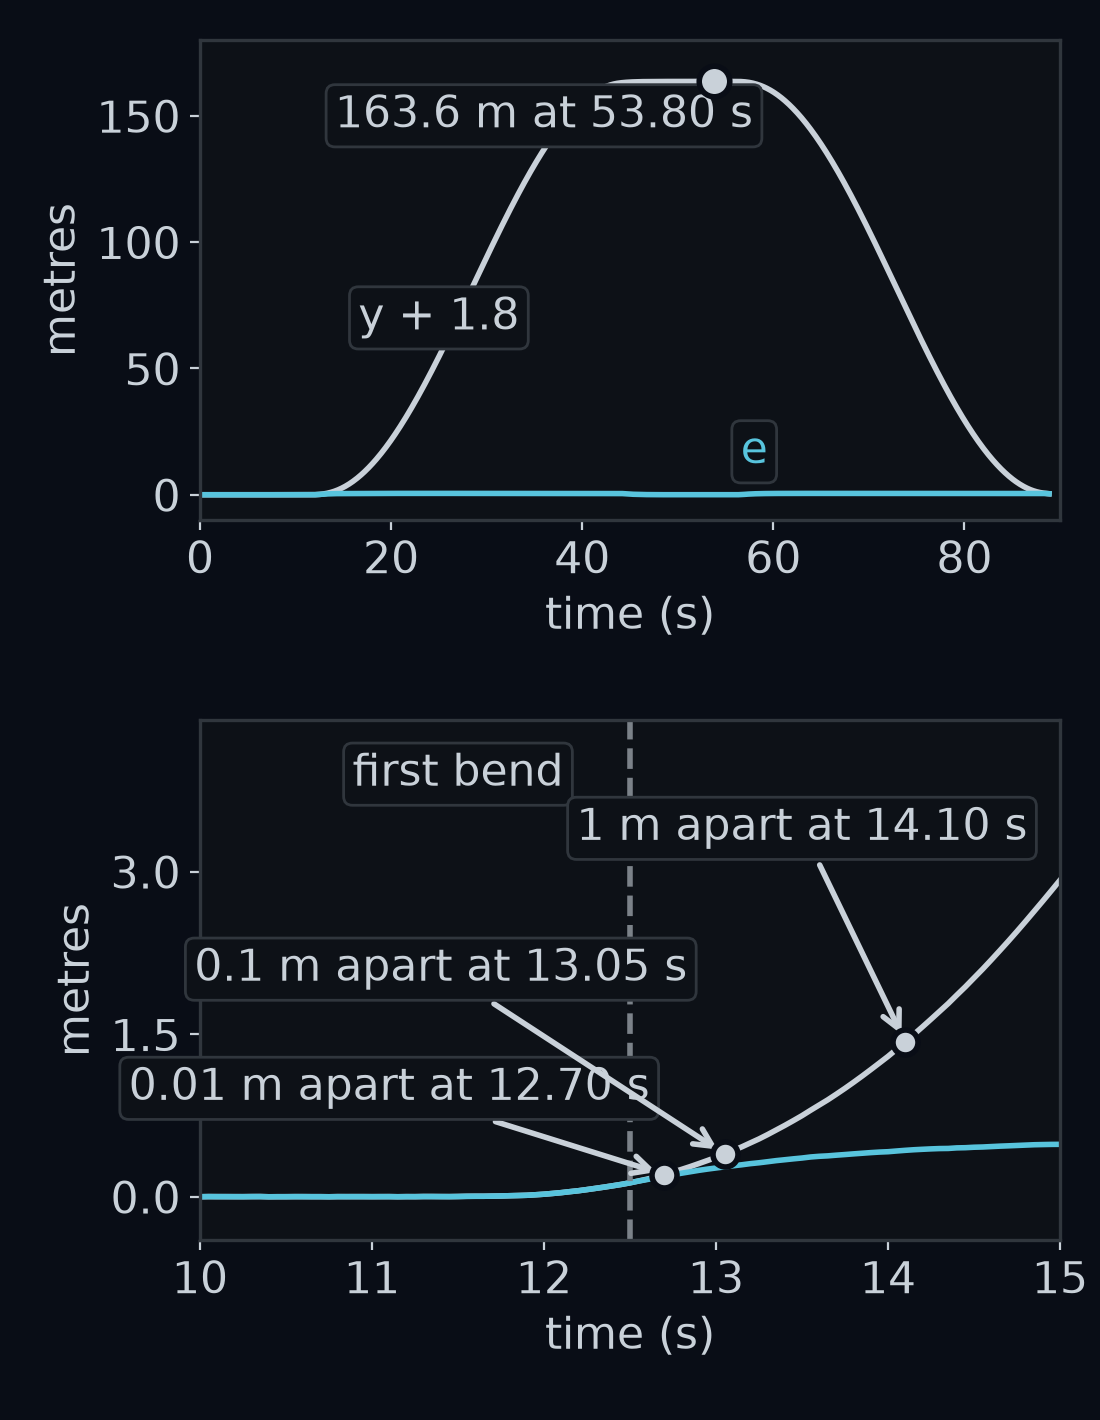
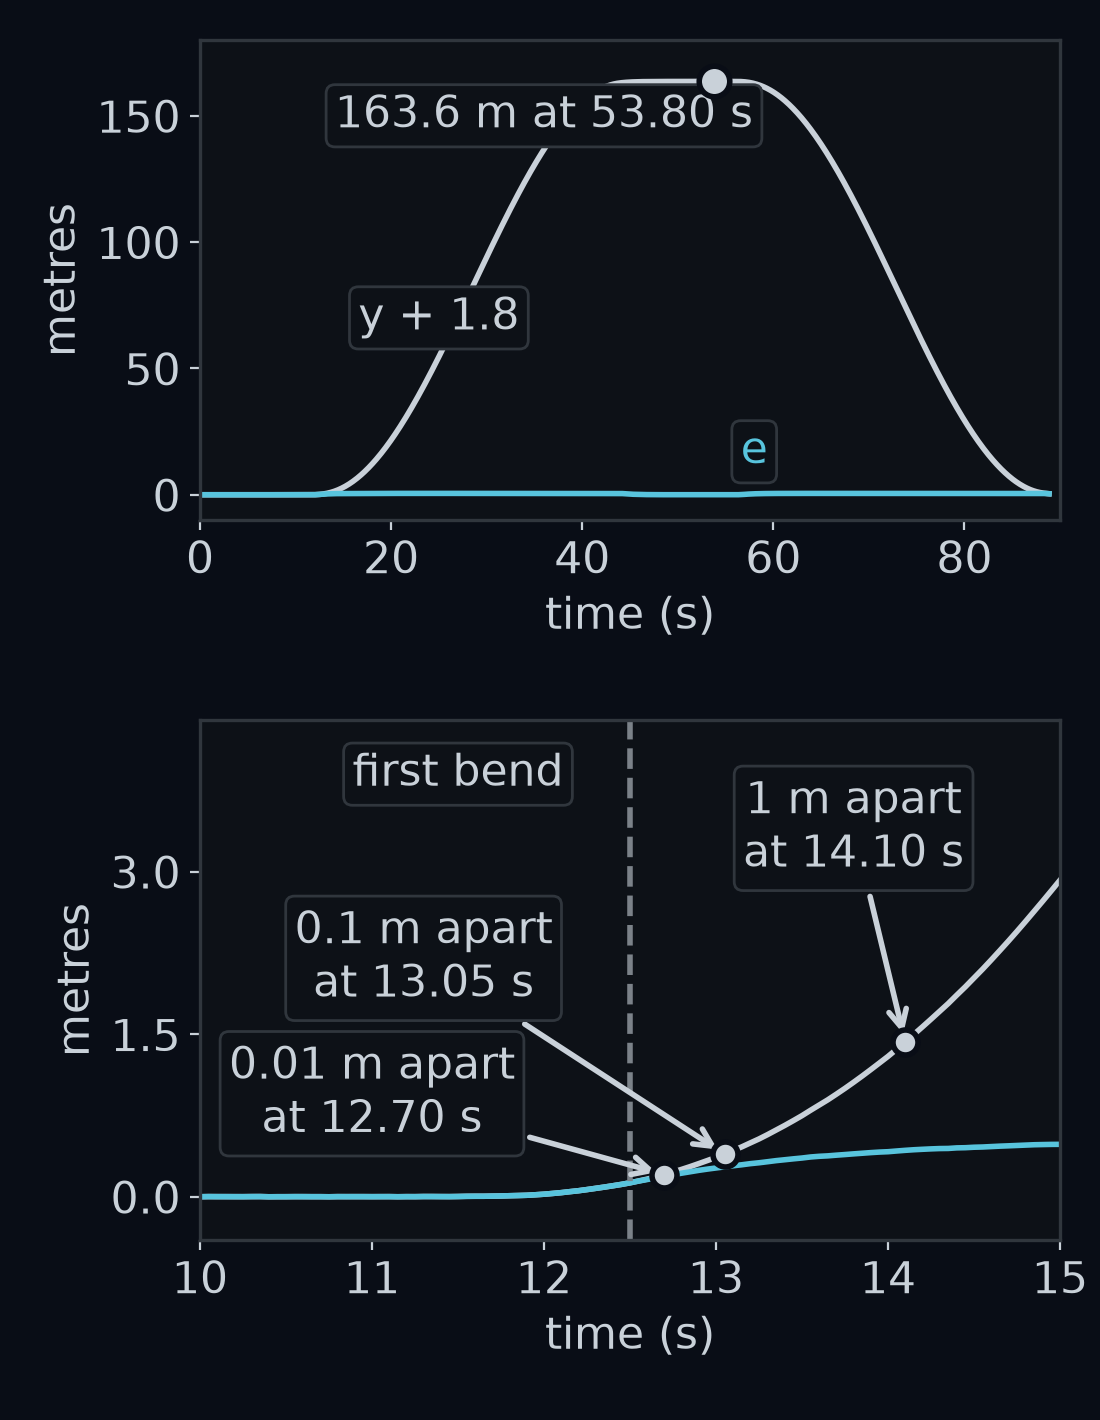
1.1.3 fix round 2: T1 yaw/heading wording, s-matches hint, figure labels, lab practice label

Changed region(s): [[0.0927, 0.6197, 0.6491, 0.8366], [0.5255, 0.5268, 0.9582, 0.7437]]

diff --git a/course/1.1.3-the-roads-own-coordinates/figures.py b/course/1.1.3-the-roads-own-coordinates/figures.py
@@ -236,7 +236,7 @@ def naive_y(path):
     bot.plot(lap.t[keep], lap.e[keep], color=BLUE, lw=2)
     bot.axvline(12.5, color=DIM, ls="--", lw=2)
     _tag(bot, 11.5, 3.9, "first bend")
-    for gap_m, text, where in ((0.01, "0.01 m apart at 12.70 s", (11.1, 1.0)), (0.1, "0.1 m apart at 13.05 s", (11.4, 2.1)), (1.0, "1 m apart at 14.10 s", (13.5, 3.4))):
+    for gap_m, text, where in ((0.01, "0.01 m apart\nat 12.70 s", (11.0, 0.95)), (0.1, "0.1 m apart\nat 13.05 s", (11.3, 2.2)), (1.0, "1 m apart\nat 14.10 s", (13.8, 3.4))):
         k = int(np.argmax(diff > gap_m))
         _dot(bot, lap.t[k], naive[k], TEXT, 9)
         _pointer(bot, text, (lap.t[k], naive[k]), where)
@@ -764,18 +764,19 @@ def challenge_setup(path):
     road_dir = np.array([math.cos(yaw - 0.04), math.sin(yaw - 0.04)])
     stretch = 10.0  # 0.04 rad is invisible at true size: the pink ray and arc are drawn this many times too wide, as in vertex_tie
     wide = yaw - 0.04 + stretch * 0.04
-    ax.plot(*zip(car, car + 2.6 * road_dir), color=DIM, lw=2, ls="--", zorder=3)
-    ax.plot(*zip(car, car + 2.6 * np.array([math.cos(wide), math.sin(wide)])), color=PINK, lw=2, ls="--", zorder=3)
+    ax.plot(*zip(car, car + 3.0 * road_dir), color=DIM, lw=2, ls="--", zorder=3)
+    ax.plot(*zip(car, car + 3.0 * np.array([math.cos(wide), math.sin(wide)])), color=PINK, lw=2, ls="--", zorder=3)
     theta = np.linspace(yaw - 0.04, wide, 12)
-    ax.plot(car[0] + 2.0 * np.cos(theta), car[1] + 2.0 * np.sin(theta), color=PINK, lw=3, zorder=5)
+    ax.plot(car[0] + 2.5 * np.cos(theta), car[1] + 2.5 * np.sin(theta), color=PINK, lw=3, zorder=5)
     _brace(ax, lane, car, BLUE, lw=4)
     _car(ax, (x, y, yaw), length=1.5)  # behind the front axle, so the ego frame's x axis ahead of it does not hide it
     _frame(ax, (x, y, yaw), QUANTITY["ego"], "", length=1.6)
     left_of = np.array([-ahead[1], ahead[0]])
     ax.text(*(car + 0.5 * (left_of - ahead)), "ego", color=QUANTITY["ego"], ha="center", va="center")
     _pointer(ax, "e = +0.3 m", 0.5 * (lane + car), (car[0] + 1.3, car[1] - 1.5), colour=BLUE)
-    _pointer(ax, "ψ = +0.04 rad,\ndrawn 10 times too wide", car + 2.0 * np.array([math.cos(wide - 0.2), math.sin(wide - 0.2)]), (car[0] + 1.3, car[1] + 2.0), colour=PINK)
+    _pointer(ax, "ψ = +0.04 rad,\ndrawn 10 times too wide", car + 2.5 * np.array([math.cos(wide - 0.2), math.sin(wide - 0.2)]), (car[0] + 1.3, car[1] + 2.0), colour=PINK)
     _xy_axes(ax)
+    ax.set_xticks([172.0, 174.0, 176.0])  # 177.0 would be cut off at the figure's edge
     _save(fig, path)
 
 

diff --git a/zero2fsd/grade/units/u1_1_3.py b/zero2fsd/grade/units/u1_1_3.py
@@ -48,19 +48,19 @@ class _Segments:
 
 
 def tie_headings(road: Road, x: float, y: float) -> np.ndarray:
-    """The headings of every segment whose foot is as near to (x, y) as the nearest one (within TOL): two, at a vertex tie."""
+    """The directions of every segment whose foot is as near to (x, y) as the nearest one (within TOL): two, at a vertex tie."""
     return _Segments(road.centerline, road.closed).tie_headings((x, y))
 
 
 def _wrapped_truths(road: Road, pose) -> list[float]:
-    """Every heading error the pose's nearest segments allow, in [-pi, pi); a truth of exactly -pi also allows +pi (`arctan2` gives that one)."""
+    """Every ψ the pose's nearest segments allow, in [-pi, pi); a truth of exactly -pi also allows +pi (`arctan2` gives that one)."""
     x, y, yaw = pose
     truths = [float(wrap_angle(yaw - h)) for h in tie_headings(road, x, y)]
     return truths + [np.pi for w in truths if abs(w + np.pi) <= TOL]
 
 
 def psi_misfit(road: Road, pose, psi: float) -> float:
-    """How far `psi` is from the truth in rad; at a vertex tie the truth is any of the tied segments' headings, and a turn out is a whole 2*pi off."""
+    """How far `psi` is from the truth in rad; at a vertex tie the truth is any of the tied segments' directions, and a turn out is a whole 2*pi off."""
     return min(abs(psi - w) for w in _wrapped_truths(road, pose))
 
 
@@ -182,6 +182,7 @@ def _to_road_frame(fn, show, on_step):
             s_gap, d_gap = s_misfit(road, s, want_s), d_misfit(d, want_d, left)
             hint = (f"; this is the answer for {named}" if named else
                     f": d matches but s is {s_gap:.6g} m out" if d_gap <= TOL else
+                    f": s matches but d is {d_gap:.6g} m out" if s_gap <= TOL else
                     f": s is {s_gap:.6g} m out and d is {d_gap:.6g} m out")
             raise Failure("s or d does not match the simulator" + hint, given=given,
                           expected=f"s {want_s:.6f} m, d {want_d:+.6f} m", got=f"s {s:.6f} m, d {d:+.6f} m")

diff --git a/course/1.1.3-the-roads-own-coordinates/lab.py b/course/1.1.3-the-roads-own-coordinates/lab.py
@@ -295,8 +295,8 @@ def lane_errors(centerline, closed, pose):
 try:
     mine = np.array([lane_errors(centerline, True, (x, y, th)) for x, y, th in zip(tel.x, tel.y, tel.yaw)])
     practice("max |e − lat| (m)", float(np.abs(mine[:, 0] - tel.lat).max()), 0.0, tol=1e-9)
-    misfit = max(psi_misfit(road, pose, psi) for pose, psi in zip(zip(tel.x, tel.y, tel.yaw), mine[:, 1]))  # 0 for either tied segment's heading
-    practice("max |ψ − head_err| (rad)", misfit, 0.0, tol=1e-9)
+    misfit = max(psi_misfit(road, pose, psi) for pose, psi in zip(zip(tel.x, tel.y, tel.yaw), mine[:, 1]))  # 0 for either tied segment's direction
+    practice("largest ψ misfit (rad), either tied segment right", misfit, 0.0, tol=1e-9)
 except NotImplementedError:
     print("Write lane_errors above first, then run this cell again.")
 
@@ -372,7 +372,7 @@ practice("segments, worst |d| error (m)", p, 0.0391, tol=1e-4)
 #
 # ## What's next
 #
-# You can now turn a position and a heading into `s`, `d`, `e` and `psi`, the two numbers the controller steers on. In the
+# You can now turn a position and a yaw into `s` and `d`, and from them `e` and `psi`, the two numbers the controller steers on. In the
 # next lesson, *Poses you can chain*, the car loses the outside world and has to find out where it is from how it moved.
 #
 # ![](figures/next_lesson.png)

diff --git a/tests/zero2fsd/test_u1_1_3.py b/tests/zero2fsd/test_u1_1_3.py
@@ -179,6 +179,11 @@ def test_the_lecture_s_own_s_only_error_gets_the_s_hint():
     assert "d matches but s is 1 m out" in verdict("1.1.3.a", off_by_a_metre)
 
 
+def test_a_d_only_error_gets_the_d_hint():
+    off_by_a_metre = lambda line, closed, p: (SOLUTION.to_road_frame(line, closed, p)[0], SOLUTION.to_road_frame(line, closed, p)[1] + 1.0)  # noqa: E731
+    assert "s matches but d is 1 m out" in verdict("1.1.3.a", off_by_a_metre)
+
+
 def _lane(psi_of):
     """A learner's lane_errors whose psi is `psi_of(yaw, heading)`, the heading being the nearest segment's (the later of two at a tie when `last`)."""
     def fn(line, closed, pose):

diff --git a/course/1.1.3-the-roads-own-coordinates/lecture.md b/course/1.1.3-the-roads-own-coordinates/lecture.md
@@ -4,7 +4,7 @@ You are the referee. The provided car is driving its lap of `gentle` at 8 m/s, a
 
 How far along the road is the car, and how far from its lane centre?
 
-By the end you will write `to_road_frame` and `lane_errors`, two short functions that turn a position in the world into the road's own pair of coordinates. They will reproduce the simulator's lateral error and heading at every one of the 1778 steps of a lap, with a difference of exactly zero.
+By the end you will write `to_road_frame` and `lane_errors`, two short functions that turn a position in the world into the road's own pair of coordinates. They will reproduce the simulator's lateral error and the heading ψ of *Your first perception box* at every one of the 1778 steps of a lap, with a difference of exactly zero.
 
 ![Two stacked panels of the provided car on gentle at step 400, 20.00 s into its lap, seen from above. Top: the road from its start into the first bend, where a grey line follows the yellow line from the start of the road to the point on it nearest the car, labelled 159.011 m along the road. Bottom: a zoom on a few metres around the car, where a blue brace from the lane centre to the car's front axle is labelled 0.528 m left of the lane centre.](figures/result_first.png)
 
@@ -46,7 +46,7 @@ In the simulator a road is a list of points along the middle of its yellow paint
 
 Take one segment, from vertex $\mathbf{a}$ to vertex $\mathbf{b}$, and a point $\mathbf{p}$. Which point of the segment is nearest $\mathbf{p}$, and how far away is it?
 
-Work it with hand numbers: $\mathbf{a} = (2, 1)$, $\mathbf{b} = (10, 7)$ and $\mathbf{p} = (5, 7)$. The segment's arrow is $\mathbf{b} - \mathbf{a} = (8, 6)$. Its length, by Pythagoras, is $\sqrt{8^2 + 6^2} = 10$. Divide the arrow by its length and you get an arrow 1 m long along the segment, $\hat{u} = (0.8, 0.6)$, read "u-hat". It is a unit vector, like the heading arrow of *Positions and headings*: it is the heading arrow of someone standing at $\mathbf{a}$ and facing $\mathbf{b}$.
+Work it with hand numbers: $\mathbf{a} = (2, 1)$, $\mathbf{b} = (10, 7)$ and $\mathbf{p} = (5, 7)$. The segment's arrow is $\mathbf{b} - \mathbf{a} = (8, 6)$. Its length, by Pythagoras, is $\sqrt{8^2 + 6^2} = 10$. Divide the arrow by its length and you get an arrow 1 m long along the segment, $\hat{u} = (0.8, 0.6)$, read "u-hat". It is a unit vector, like the yaw arrow of *Positions and headings*: it is the yaw arrow of someone standing at $\mathbf{a}$ and facing $\mathbf{b}$.
 
 Now ask, as *Positions and headings* did for a cone, how far ahead of that someone $\mathbf{p}$ is, and how far to the left. The arrow from $\mathbf{a}$ to $\mathbf{p}$ is $\mathbf{p} - \mathbf{a} = (3, 6)$. Its forward part is a dot product with $\hat{u}$, and its left part a 2D cross product:
 
@@ -157,7 +157,7 @@ At step 400, $\theta = 0.7040$ rad and $\theta_{\text{road}} = 0.7379$ rad, so $
 
 Both errors are what a driver standing at the foot, facing along the road, would see. That driver's pose is the foot with the angle $\theta_{\text{road}}$.
 
-![The car at step 400 seen from a frame placed at the foot on the yellow line, with its x axis along the road and its y axis to the road's left, both drawn in grey. The car's front axle sits at forward 0, left −1.2717, labelled (0, d). Its heading arrow is turned 0.0339 rad clockwise from the frame's x axis, labelled ψ = −0.0339 rad, in pink.](figures/foot_frame.png)
+![The car at step 400 seen from a frame placed at the foot on the yellow line, with its x axis along the road and its y axis to the road's left, both drawn in grey. The car's front axle sits at forward 0, left −1.2717, labelled (0, d). Its yaw arrow is turned 0.0339 rad clockwise from the frame's x axis, labelled ψ = −0.0339 rad, in pink.](figures/foot_frame.png)
 
 From that frame, `world_to_ego` puts the car at ($-6 \times 10^{-15}$, −1.2717). The first number is zero up to rounding, because the foot is level with the car by construction, and the second is $d$. The road frame is the driver's-seat view taken from the road's nearest point, wherever the car is.
 
